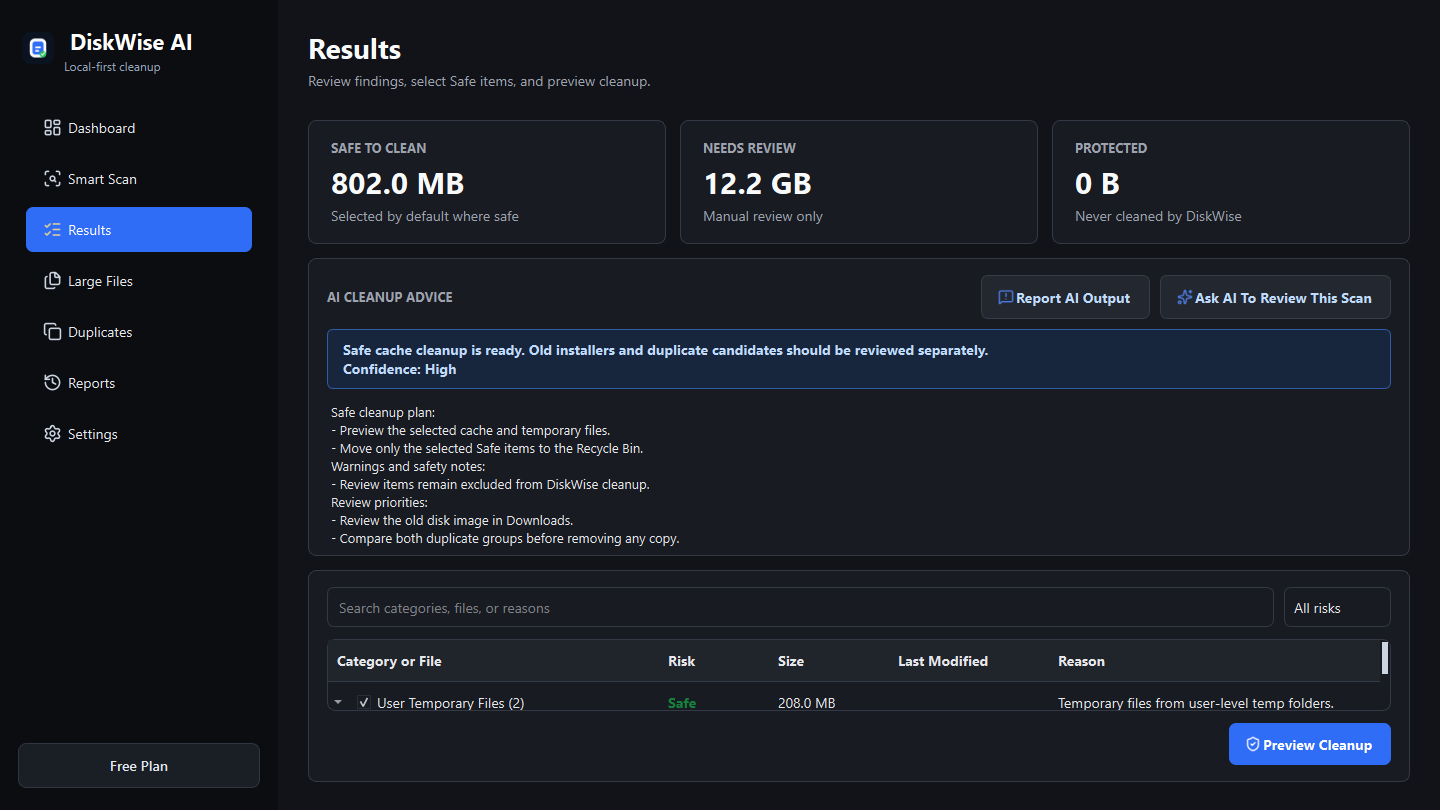
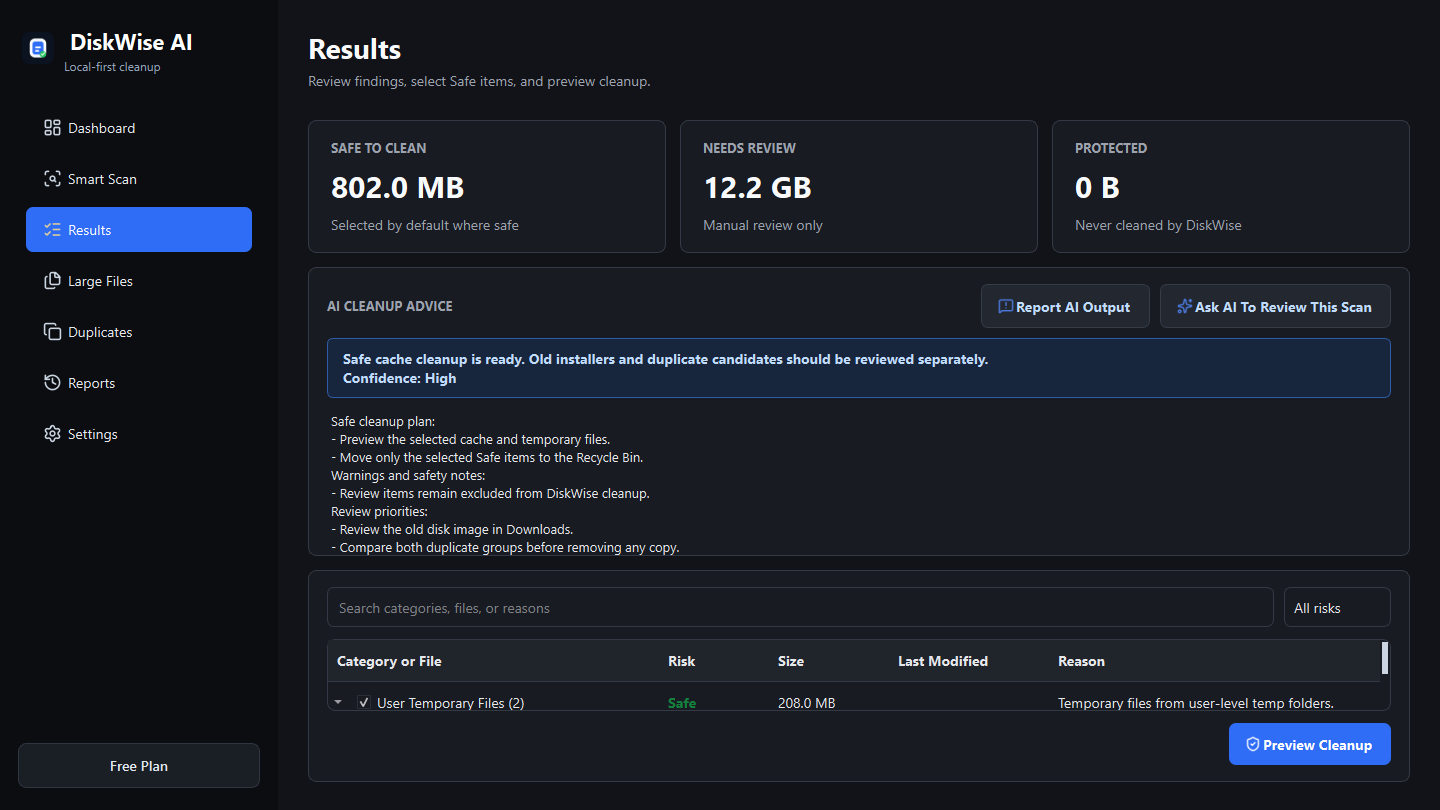
Polish minimum-size and cleanup UX

Changed region(s): [[0.2188, 0.216, 0.9688, 0.679]]

diff --git a/tests/test_main_window.py b/tests/test_main_window.py
@@ -6,10 +6,12 @@ from types import SimpleNamespace
 
 os.environ.setdefault("QT_QPA_PLATFORM", "offscreen")
 
+from PySide6.QtCore import QPoint, QRect
 from PySide6.QtWidgets import QApplication
 
 from app.models import CleanupCategory, CleanupItem, RiskLevel, ScanResult
 from app.ui.pages.dashboard_page import DashboardPage
+from app.ui.pages.scan_page import ScanPage
 from app.ui.main_window import MainWindow
 
 
@@ -97,6 +99,35 @@ def test_dashboard_keeps_live_cleanup_actions_enabled_after_history_refresh(
 
     assert page.view_results_button.isEnabled()
     assert page.clean_safe_button.isEnabled()
+
+    page.deleteLater()
+    app.processEvents()
+
+
+def test_scan_page_actions_do_not_overlap_stages_at_minimum_window_size() -> None:
+    app = QApplication.instance() or QApplication([])
+    settings = SimpleNamespace(
+        get_scan_mode=lambda: "Deep",
+        set_scan_mode=lambda _mode: None,
+    )
+    page = ScanPage(SimpleNamespace(), SimpleNamespace(), settings)
+    page.resize(842, 720)
+    page.show()
+    app.processEvents()
+
+    assert page.minimumSizeHint().height() <= 720
+
+    def assert_actions_clear_stage_list() -> None:
+        stage_rect = QRect(page.stage_list.mapTo(page, QPoint()), page.stage_list.size())
+        start_rect = QRect(page.start_button.mapTo(page, QPoint()), page.start_button.size())
+        cancel_rect = QRect(page.cancel_button.mapTo(page, QPoint()), page.cancel_button.size())
+        assert not stage_rect.intersects(start_rect)
+        assert not stage_rect.intersects(cancel_rect)
+
+    assert_actions_clear_stage_list()
+    page.on_progress("Browser cache", 42, 710 * 1024 * 1024, 48)
+    app.processEvents()
+    assert_actions_clear_stage_list()
 
     page.deleteLater()
     app.processEvents()

diff --git a/app/ui/pages/results_page.py b/app/ui/pages/results_page.py
@@ -65,7 +65,9 @@ class CleanupPreviewDialog(QDialog):
         self.resize(980, 580)
 
         total_bytes = sum(item.size_bytes for item in selected_items)
-        categories = sorted({item.category for item in selected_items})
+        categories = sorted(
+            {item.category.replace("_", " ").title() for item in selected_items}
+        )
 
         title = QLabel("Ready to move Safe items")
         title.setObjectName("SectionTitle")
@@ -90,11 +92,11 @@ class CleanupPreviewDialog(QDialog):
 
         table = QTableWidget(min(len(selected_items), 100), 5)
         table.setHorizontalHeaderLabels(["File", "Location", "Category", "Size", "Why it is Safe"])
-        table.setColumnWidth(0, 180)
-        table.setColumnWidth(1, 300)
-        table.setColumnWidth(2, 130)
-        table.setColumnWidth(3, 100)
-        table.setColumnWidth(4, 260)
+        table.verticalHeader().hide()
+        table.setColumnWidth(0, 150)
+        table.setColumnWidth(1, 270)
+        table.setColumnWidth(2, 135)
+        table.setColumnWidth(3, 90)
         table.setEditTriggers(QAbstractItemView.EditTrigger.NoEditTriggers)
         table.setSelectionBehavior(QAbstractItemView.SelectionBehavior.SelectRows)
         table.horizontalHeader().setStretchLastSection(True)
@@ -102,7 +104,7 @@ class CleanupPreviewDialog(QDialog):
             values = [
                 item.file_name,
                 item.file_path,
-                item.category,
+                item.category.replace("_", " ").title(),
                 format_bytes(item.size_bytes),
                 item.reason,
             ]
@@ -116,8 +118,12 @@ class CleanupPreviewDialog(QDialog):
             QDialogButtonBox.StandardButton.Cancel | QDialogButtonBox.StandardButton.Ok
         )
         ok_button = self.buttons.button(QDialogButtonBox.StandardButton.Ok)
+        cancel_button = self.buttons.button(QDialogButtonBox.StandardButton.Cancel)
         ok_button.setText("Clean Safe Items")
         ok_button.setEnabled(False)
+        ok_button.setIcon(icon("shield-check", "#ffffff"))
+        cancel_button.setProperty("class", "Secondary")
+        cancel_button.setIcon(icon("x", "#4f7fe8"))
 
         layout = QVBoxLayout(self)
         layout.setContentsMargins(22, 20, 22, 20)

diff --git a/app/ui/pages/settings_page.py b/app/ui/pages/settings_page.py
@@ -114,9 +114,9 @@ class SettingsPage(QWidget):
 
         self.add_exclusion_button = QPushButton("Add Folder")
         self.remove_exclusion_button = QPushButton("Remove Selected")
-        self.clear_scans_button = QPushButton("Clear Scan History")
-        self.clear_reports_button = QPushButton("Clear Cleanup Reports")
-        self.clear_logs_button = QPushButton("Clear Diagnostic Logs")
+        self.clear_scans_button = QPushButton("Clear Scans")
+        self.clear_reports_button = QPushButton("Clear Reports")
+        self.clear_logs_button = QPushButton("Clear Logs")
         self.clear_history_button = QPushButton("Clear All History")
         self.reset_settings_button = QPushButton("Reset Settings")
         self.show_welcome_button = QPushButton("Show Welcome")
@@ -125,6 +125,9 @@ class SettingsPage(QWidget):
         self.upgrade_button = QPushButton("Preview Roadmap")
         self.save_ai_button = QPushButton("Save AI Settings")
         self.test_ai_button = QPushButton("Test OpenRouter")
+        self.clear_scans_button.setToolTip("Delete all locally stored scan history.")
+        self.clear_reports_button.setToolTip("Delete all locally stored cleanup reports.")
+        self.clear_logs_button.setToolTip("Delete current and rotated diagnostic logs.")
         self.remove_exclusion_button.setProperty("class", "Secondary")
         self.clear_scans_button.setProperty("class", "Secondary")
         self.clear_reports_button.setProperty("class", "Secondary")

diff --git a/tests/test_results_cleanup_state.py b/tests/test_results_cleanup_state.py
@@ -8,7 +8,7 @@ from types import SimpleNamespace
 os.environ.setdefault("QT_QPA_PLATFORM", "offscreen")
 
 from PySide6.QtCore import QEventLoop, Qt, QTimer
-from PySide6.QtWidgets import QApplication, QMessageBox, QTableWidget
+from PySide6.QtWidgets import QApplication, QDialogButtonBox, QMessageBox, QTableWidget
 
 from app.models import CleanupCategory, CleanupItem, CleanupResult, RiskLevel, ScanResult
 from app.services import cleanup_service as cleanup_module
@@ -214,8 +214,14 @@ def test_cleanup_preview_shows_location_and_recycle_bin_confirmation(tmp_path: P
     assert table is not None
     assert table.horizontalHeaderItem(1).text() == "Location"
     assert table.item(0, 1).text() == item.file_path
+    assert table.item(0, 2).text() == "User Temp"
+    assert table.verticalHeader().isHidden()
     assert "Recycle Bin" in dialog.confirm_checkbox.text()
     assert dialog.buttons.button(dialog.buttons.StandardButton.Ok).isEnabled() is False
+    assert (
+        dialog.buttons.button(QDialogButtonBox.StandardButton.Cancel).property("class")
+        == "Secondary"
+    )
 
     dialog.confirm_checkbox.setChecked(True)
     assert dialog.buttons.button(dialog.buttons.StandardButton.Ok).isEnabled() is True

diff --git a/app/ui/pages/dashboard_page.py b/app/ui/pages/dashboard_page.py
@@ -162,10 +162,14 @@ class DashboardPage(QWidget):
         if latest_report is not None:
             self.view_latest_report_button.setEnabled(True)
             self.view_latest_report_button.setText(
-                f"Latest Report: {format_bytes(latest_report.bytes_recovered)} moved"
+                f"Latest Report: {format_bytes(latest_report.bytes_recovered)}"
+            )
+            self.view_latest_report_button.setToolTip(
+                f"Open the latest cleanup report ({format_bytes(latest_report.bytes_recovered)} moved)."
             )
         else:
             self.view_latest_report_button.setText("View Latest Report")
+            self.view_latest_report_button.setToolTip("")
             self.view_latest_report_button.setEnabled(False)
 
     def set_scan_history(self, scan: ScanHistoryItem) -> None:

diff --git a/app/ui/pages/scan_page.py b/app/ui/pages/scan_page.py
@@ -116,7 +116,7 @@ class ScanPage(QWidget):
 
         self.stage_list = QListWidget()
         self.stage_list.setObjectName("SettingsList")
-        self.stage_list.setMinimumHeight(250)
+        self.stage_list.setMinimumHeight(200)
         self._reset_stage_list()
 
         self.log = QTextEdit()
@@ -165,7 +165,7 @@ class ScanPage(QWidget):
         card_layout.addWidget(self.log)
 
         layout = QVBoxLayout(self)
-        layout.setContentsMargins(30, 28, 30, 28)
+        layout.setContentsMargins(30, 24, 30, 24)
         layout.setSpacing(14)
         layout.addWidget(page_header("Smart Scan", "Track each scan stage while DiskWise analyzes local storage."))
         layout.addWidget(card)
@@ -231,7 +231,7 @@ class ScanPage(QWidget):
         total_files = sum(count for count, _ in self.stage_totals.values())
         total_bytes = sum(size for _, size in self.stage_totals.values())
         self.files_card.set_values(f"{total_files:,}", f"Current stage: {category}")
-        self.space_card.set_values(format_bytes(total_bytes), "Findings across completed stages")
+        self.space_card.set_values(format_bytes(total_bytes), "Across completed stages")
         self._activate_stage(category)
 
     def on_completed(self, result: ScanResult) -> None:

diff --git a/app/ui/styles.py b/app/ui/styles.py
@@ -47,6 +47,9 @@ def _light_style() -> str:
         background: #0b1220;
         border: none;
     }
+    QWidget#SidebarBrand, QWidget#SidebarBrandText {
+        background: transparent;
+    }
     QLabel#AppTitle {
         color: white;
         font-size: 22px;
@@ -203,7 +206,7 @@ def _light_style() -> str:
     }
     QLabel[class="CardValueCompact"] {
         color: #08111f;
-        font-size: 24px;
+        font-size: 20px;
         font-weight: 800;
     }
     QLabel[class="HeroValue"] {

diff --git a/app/ui/main_window.py b/app/ui/main_window.py
@@ -110,12 +110,14 @@ class MainWindow(QMainWindow):
         sidebar_layout.setContentsMargins(18, 22, 18, 22)
         sidebar_layout.setSpacing(8)
         brand = QWidget()
+        brand.setObjectName("SidebarBrand")
         brand_layout = QHBoxLayout(brand)
         brand_layout.setContentsMargins(4, 0, 0, 0)
         brand_layout.setSpacing(10)
         logo = QLabel()
         logo.setPixmap(QIcon(str(APP_ICON_PATH)).pixmap(32, 32))
         brand_text = QWidget()
+        brand_text.setObjectName("SidebarBrandText")
         brand_text_layout = QVBoxLayout(brand_text)
         brand_text_layout.setContentsMargins(0, 0, 0, 0)
         brand_text_layout.setSpacing(0)

diff --git a/app/ui/widgets.py b/app/ui/widgets.py
@@ -35,6 +35,7 @@ class StatCard(Card):
         self.title_label.setProperty("class", "CardTitle")
         self.value_label = QLabel(value)
         self.value_label.setProperty("class", "CardValue")
+        self.value_label.setWordWrap(True)
         self.detail_label = QLabel(detail)
         self.detail_label.setObjectName("MutedText")
         layout = QVBoxLayout(self)